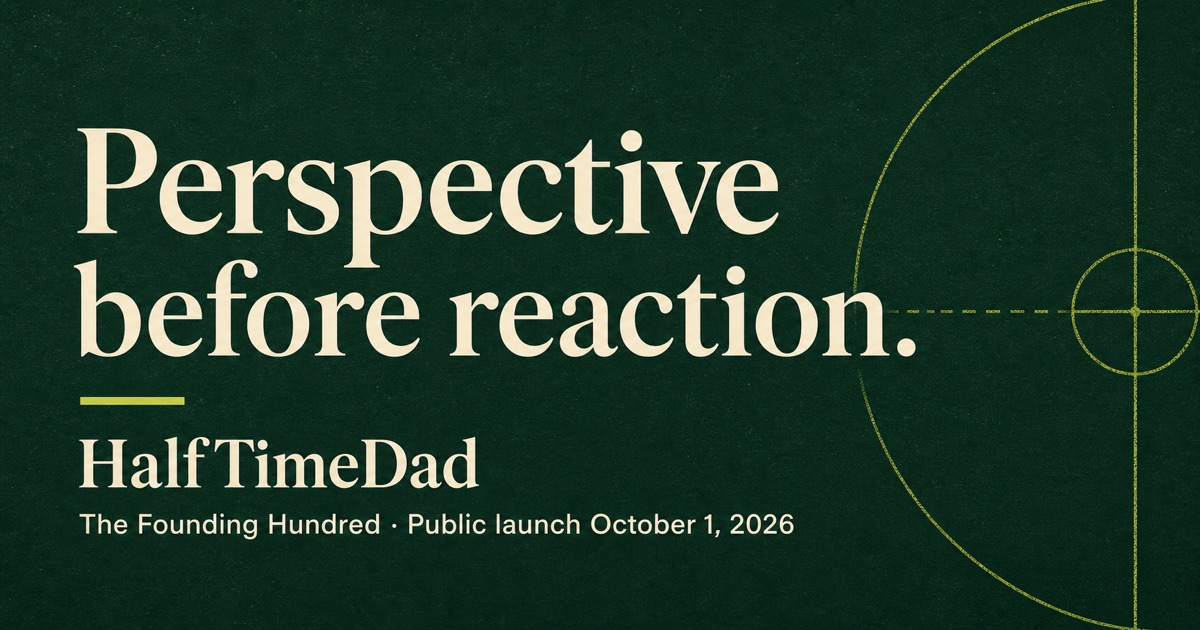
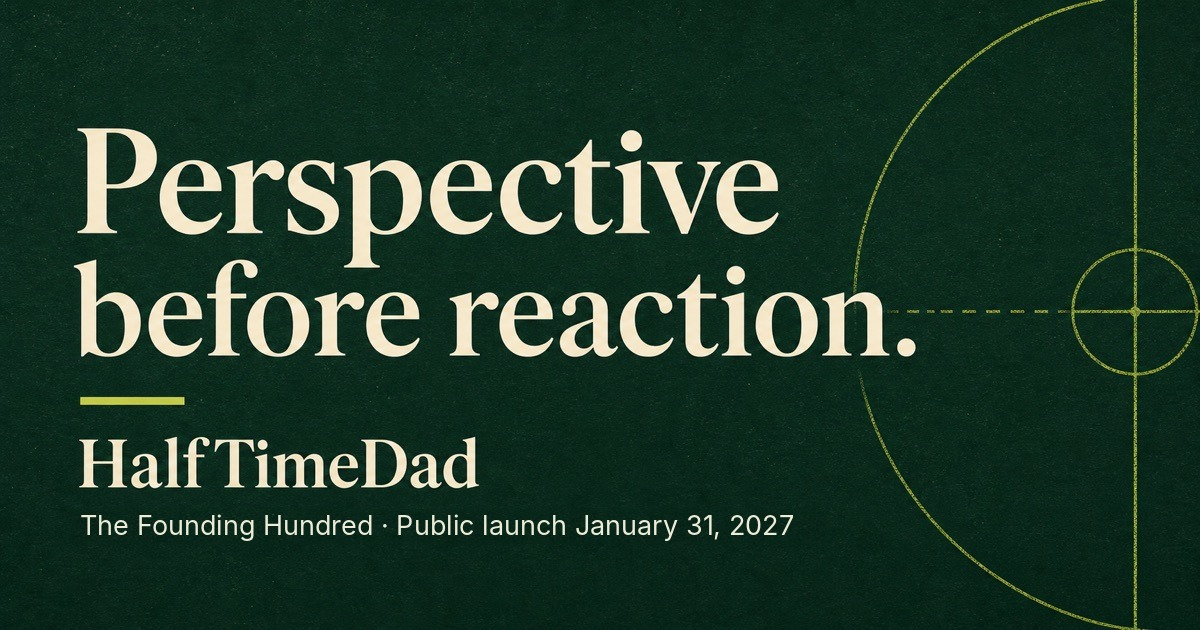
Share image: public launch January 31, 2027
Replaces the stale October 1, 2026 line on og.jpg and versions the URL so
link previews refresh.

Claude-Session: https://claude.ai/code/session_01LGB4az4t5CPbrafKd5qJZa

Changed region(s): [[0.0617, 0.8143, 0.6783, 0.8746]]

diff --git a/app/layout.tsx b/app/layout.tsx
@@ -15,9 +15,9 @@ export const metadata: Metadata = {
     url: "https://halftimedad.co",
     siteName: "HalfTimeDad",
     type: "website",
-    images: [{ url: "/og.jpg", width: 1200, height: 630, alt: "HalfTimeDad — Perspective before reaction" }],
+    images: [{ url: "/og.jpg?v=2", width: 1200, height: 630, alt: "HalfTimeDad — Perspective before reaction" }],
   },
-  twitter: { card: "summary_large_image", title: "HalfTimeDad | The Founding Hundred", description: "Perspective before reaction.", images: ["/og.jpg"] },
+  twitter: { card: "summary_large_image", title: "HalfTimeDad | The Founding Hundred", description: "Perspective before reaction.", images: ["/og.jpg?v=2"] },
   robots: { index: true, follow: true },
 };
 
